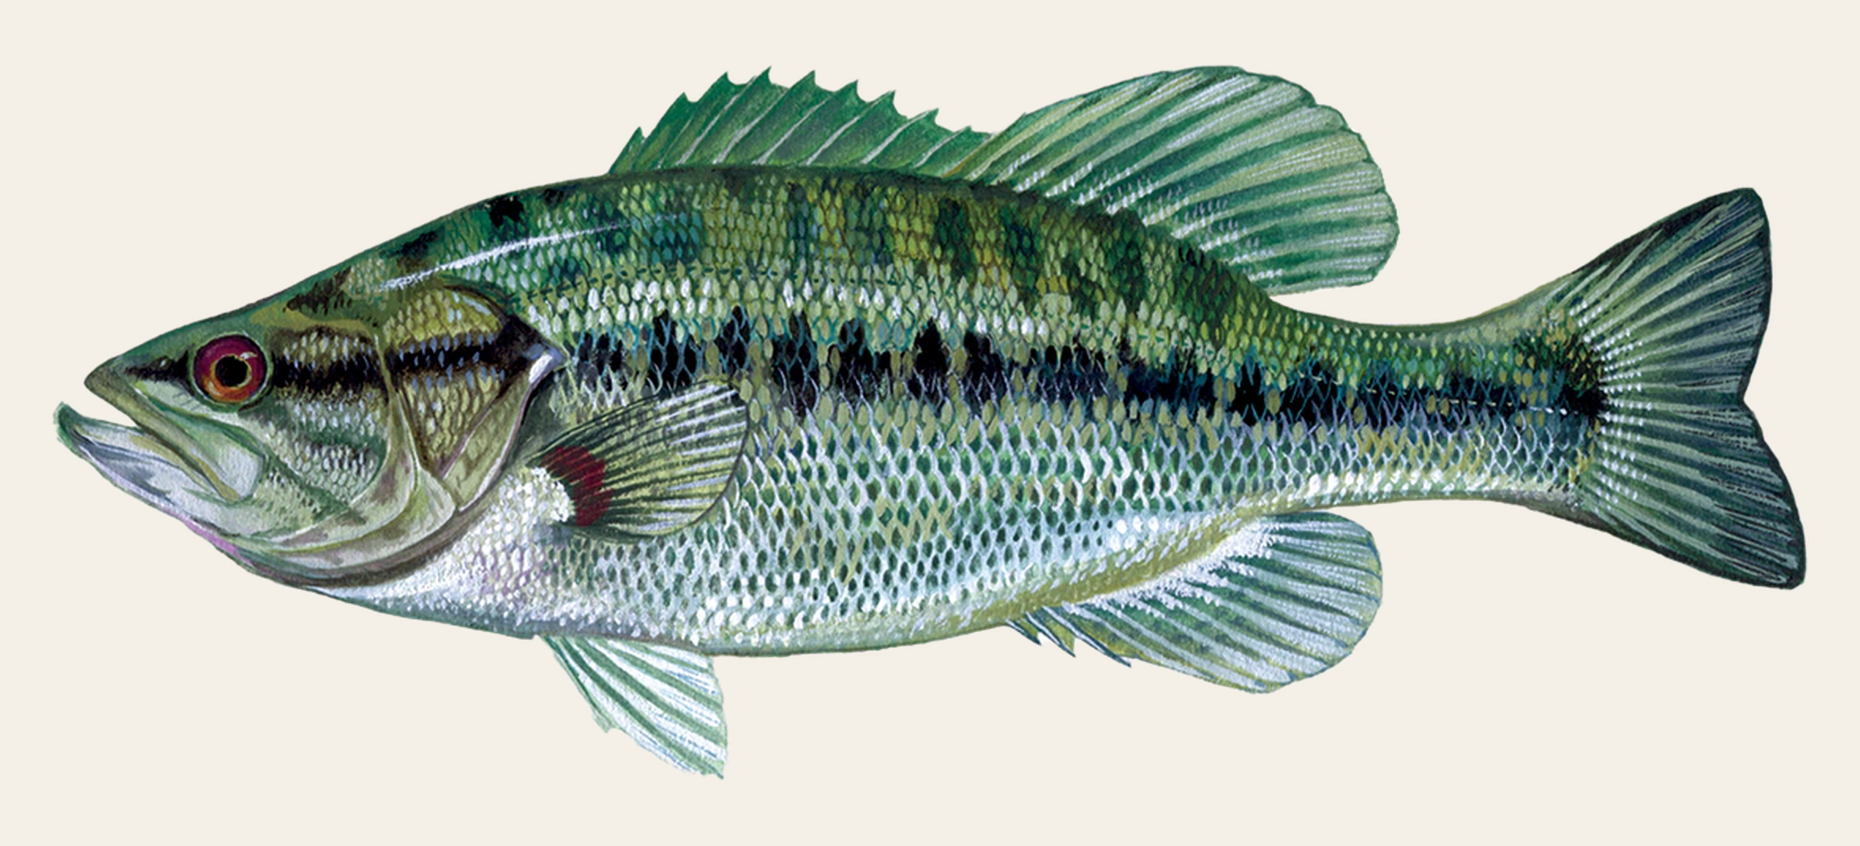
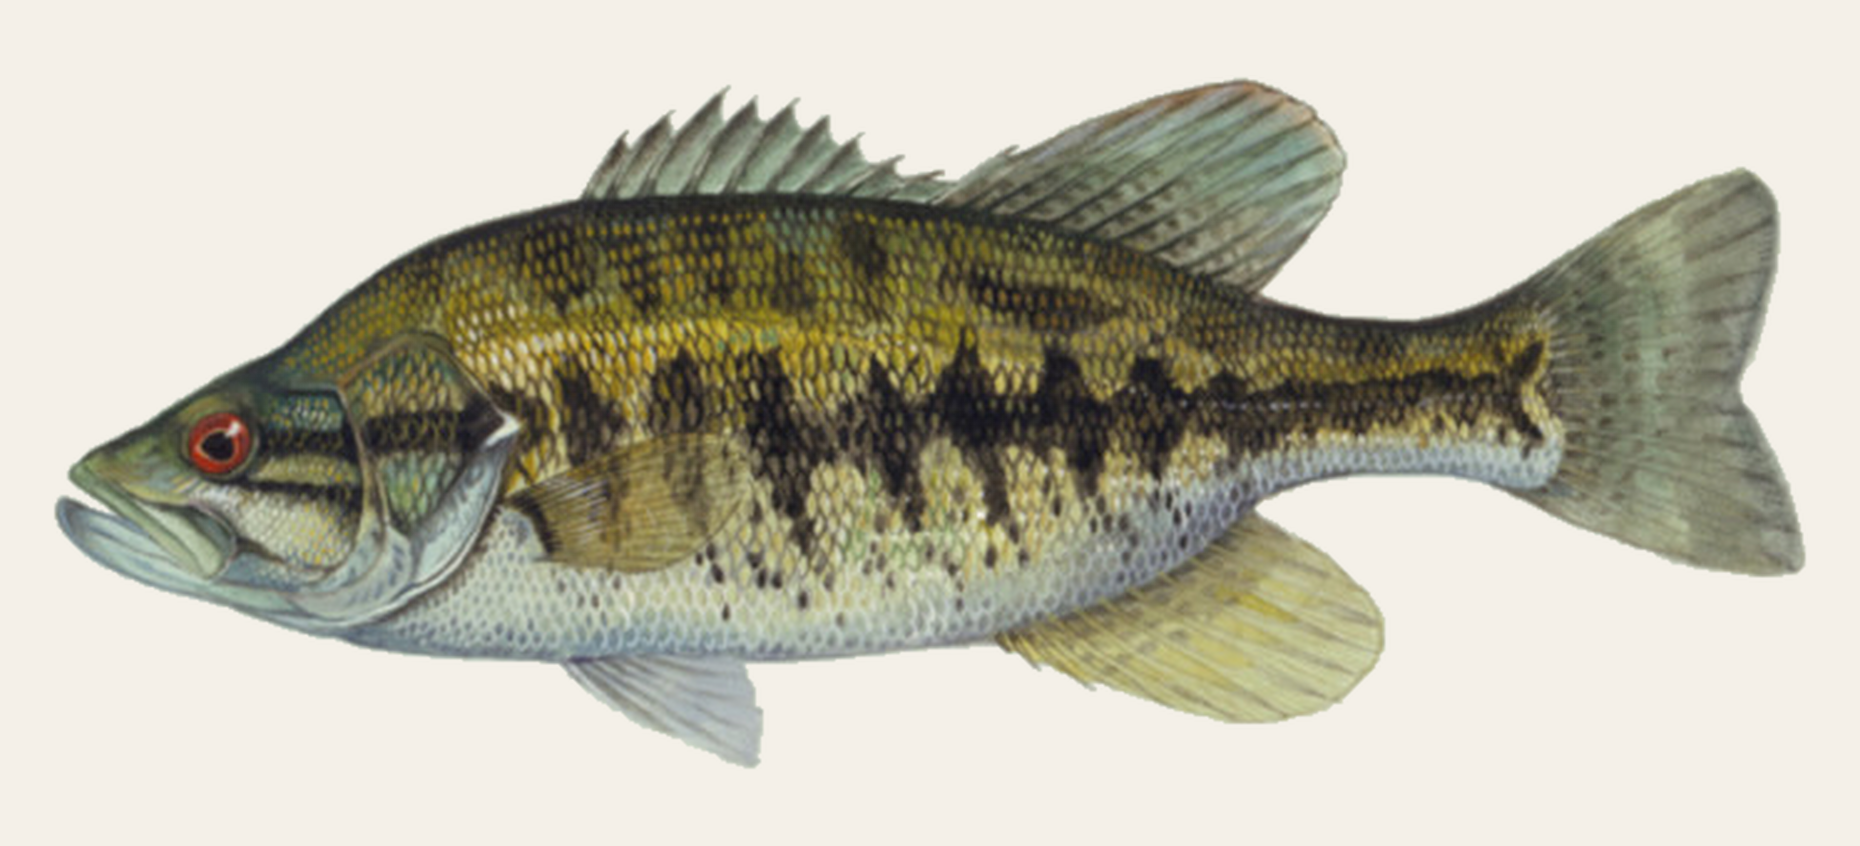
Fish Guide - finalize Spotted Bass primary image

diff --git a/data/media.js b/data/media.js
@@ -485,17 +485,17 @@ const MEDIA_DATA = Object.freeze([
         alt: "Spotted Bass illustration showing a lateral stripe, rows of dark spots below it, and connected dorsal fin",
         caption: "Spotted Bass",
         license: {
-            status: "Approved with documented rights caveat — exact ODWC file is not independently verified Public Domain and the source-site footer states All Rights Reserved",
-            type: "Copyright status not independently verified",
-            creator: "Duane Raver (credited by the ODWC source record)",
-            sourceUrl: "https://www.wildlifedepartment.com/wildlife/field-guide/fish/bass-spotted",
+            status: "Public Domain — Duane Raver / U.S. Fish and Wildlife Service provenance accepted",
+            type: "Public Domain",
+            creator: "Duane Raver",
+            sourceUrl: "https://www.fws.gov/sites/default/files/images/2005-05/25338.jpg",
             licenseUrl: null,
-            attributionRequired: true,
-            attributionText: "Illustration credited to Duane Raver; source: Oklahoma Department of Wildlife Conservation.",
-            commercialUseAllowed: null,
-            modificationAllowed: null,
-            reviewedDate: "2026-08-24",
-            changesMade: "Preserved source transparency and resized the verified 1740 x 1130 ODWC PNG proportionally to 1200 x 779; encoded as transparent WebP without crop, recolor, reshaping, or background compositing. Rebuilt for the FCC 51A Fish-image standard by placing the approved canonical Fish rendering on an exact 1860 x 846 RGB #f4f0e8 reference canvas at the approved safe composition, then encoding lossless WebP; the completed composition is reused unchanged across Fish presentation contexts."
+            attributionRequired: false,
+            attributionText: null,
+            commercialUseAllowed: true,
+            modificationAllowed: true,
+            reviewedDate: "2026-10-04",
+            changesMade: "Replaced the prior ODWC-derived Spotted Bass primary with the selected direct USFWS-hosted Duane Raver source. The acquired 1000 x 638 source raster was isolated from its non-Fish background without recoloring, repainting, reshaping, or reconstructing Fish anatomy, then placed proportionally on the exact 1860 x 846 RGB #f4f0e8 FCC primary-Fish reference canvas at the approved safe composition and encoded as lossless WebP. The completed composition is reused unchanged across Fish presentation contexts."
         },
         productionStatus: "Approved primary Fish identification illustration — canonical 1860 x 846 presentation asset",
         createdVersion: "0.6.0",

diff --git a/docs/FISH_REFERENCE_SOURCES.md b/docs/FISH_REFERENCE_SOURCES.md
@@ -1,11 +1,11 @@
 # Freshwater Fishing Companion — Fish Reference Sources
 
 **Document:** FISH_REFERENCE_SOURCES.md  
-**Document Revision:** 1.2.4  
+**Document Revision:** 1.2.5  
 **Document Status:** Approved — Production Authoring Standard  
 **Implementation Status:** Standard active; Version 1 evidence baseline COMPLETE through closed Wave 4 — 30 Fish / 20 identification pairs, with approved Fish-to-Rig guidance recorded where applicable  
 **Decision Baseline:** D056–D061, FISH-006, FISH-007  
-**Last Updated:** 2026-10-02
+**Last Updated:** 2026-10-05
 
 # Purpose
 
@@ -803,6 +803,15 @@ These entries document the approved Phase 0 taxonomy decision and provide the in
 **Source type:** Official federal public-domain scientific illustration / media provenance  
 **Reviewed date:** 2026-08-24  
 **Notes:** Duane Raver artwork commissioned by the U.S. Fish and Wildlife Service; verified original is 1200 x 742 JPEG; Public Domain.
+
+## USFWS-SPOTTED-BASS-RAVER
+
+**Authority / publisher:** U.S. Fish and Wildlife Service  
+**Title:** Spotted bass — Duane Raver illustration  
+**URL:** https://www.fws.gov/sites/default/files/images/2005-05/25338.jpg  
+**Source type:** Official federal public-domain scientific illustration / media provenance  
+**Reviewed date:** 2026-10-04  
+**Notes:** Duane Raver artwork hosted by the U.S. Fish and Wildlife Service; acquired direct 1000 x 638 source raster; Public Domain. FCC processing isolated the Fish from the source background without recoloring, repainting, or reshaping it and placed it on the canonical primary-identification canvas.
 
 ## USFWS-WHITE-BASS-RAVER
 
@@ -1664,13 +1673,13 @@ Aliases
 - ODWC-SPOTTED-BASS
 
 Media Provenance
-- ODWC-SPOTTED-BASS
+- USFWS-SPOTTED-BASS-RAVER
 
 Rig Guidance / Targeting
 - ODWC-SPOTTED-BASS — Supports jig targeting around rock, channel, current, and deeper structure.
 
 Rights / Evidence Notes
-- The selected ODWC illustration carries the exact-file rights caveat documented in the source catalog, Media registry, and Wave 3 workstream. It is not labeled independently verified Public Domain.
+- The production primary uses the direct U.S. Fish and Wildlife Service Duane Raver source and is recorded as Public Domain. The former ODWC-hosted illustration remains evidence for species content but is no longer the production media source.
 
 ## White Bass (`white-bass`)
 
